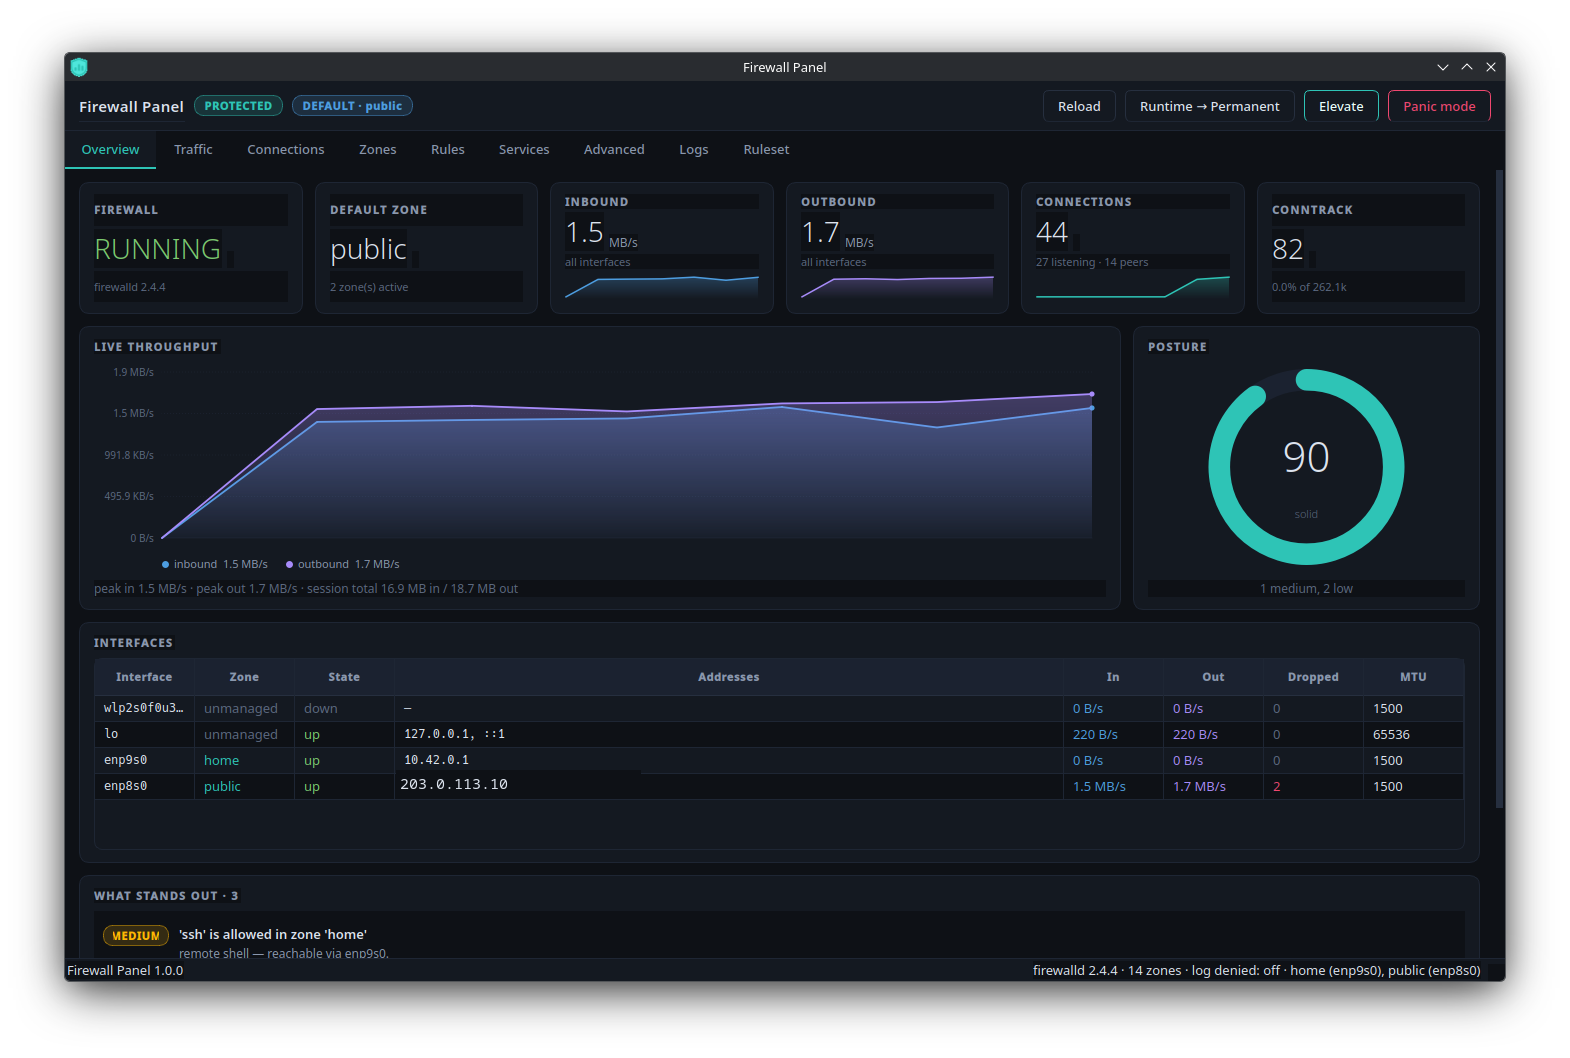
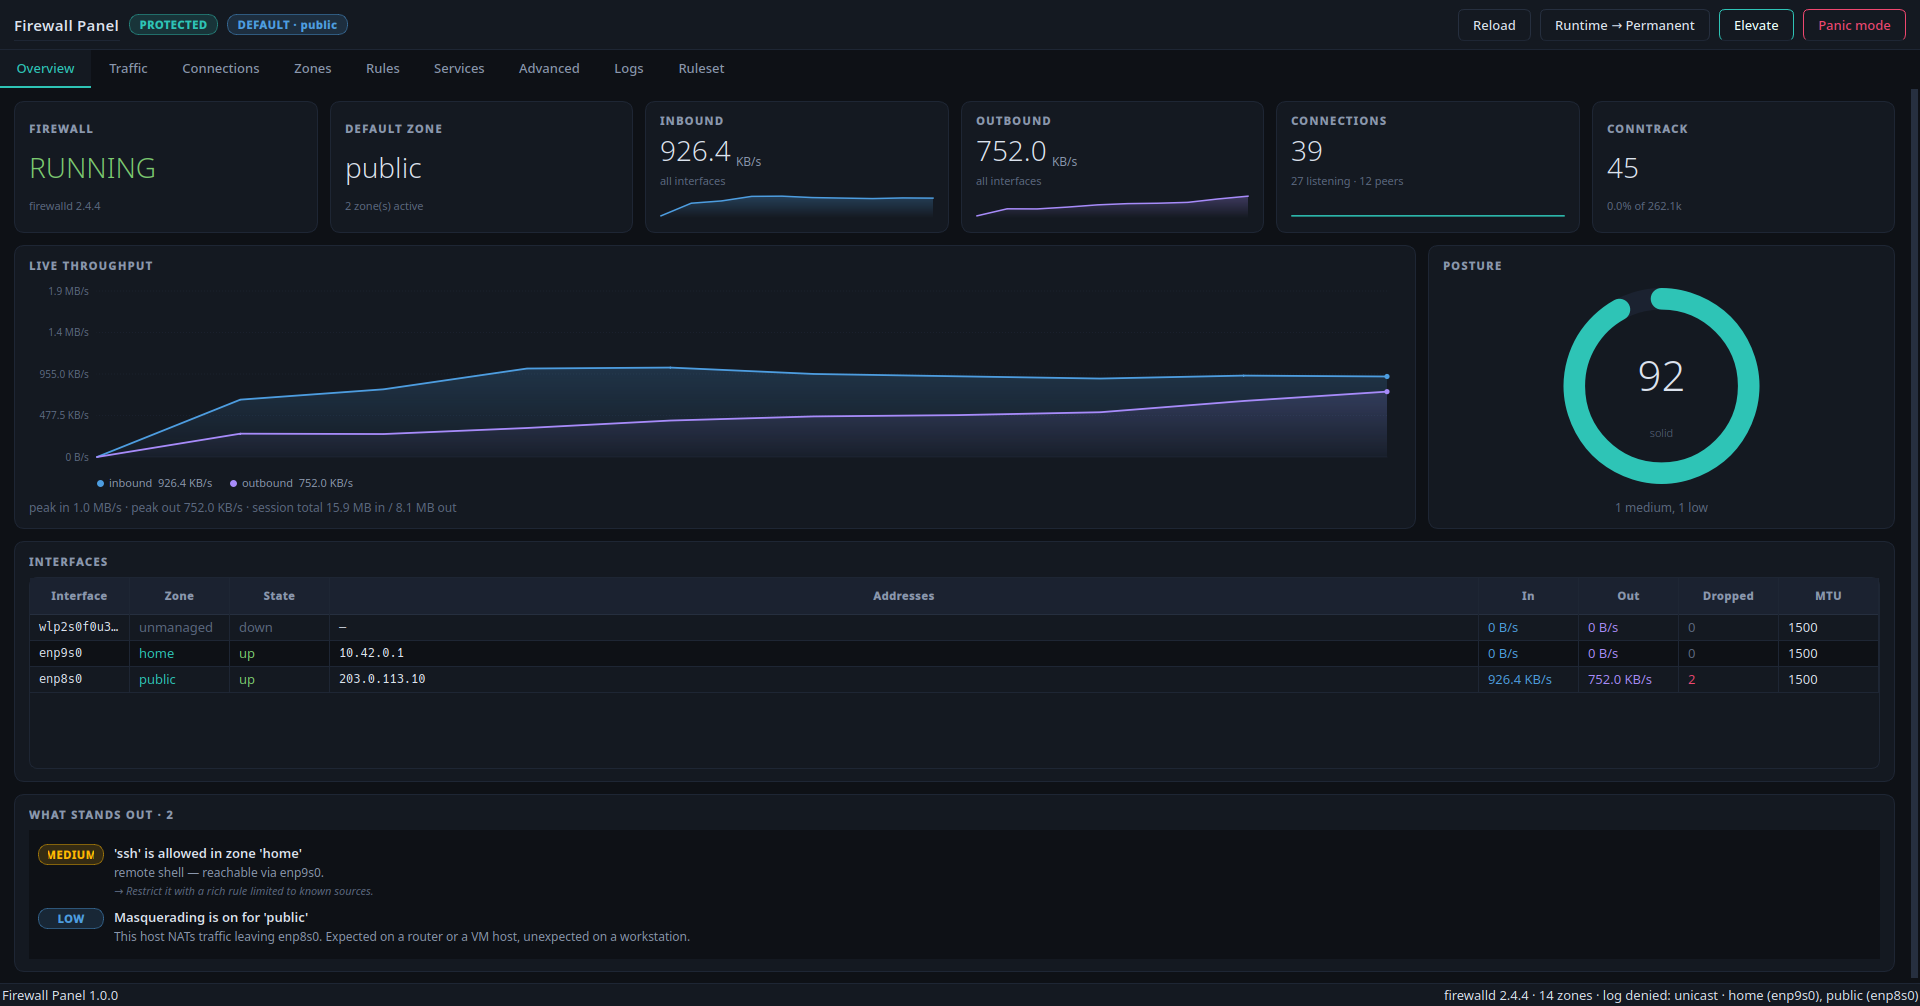
Add Connections and Logs screenshots; fix journal auto-follow
The journal pane scrolled horizontally to the end of each line as it
followed, hiding the timestamp and chain prefix behind a long kernel
record. Appending parks the text cursor at end-of-line and Qt keeps that
cursor visible on every repaint, so the view was dragged right. Anchor the
cursor to the start of the last line and follow by scrolling the viewport
instead. Also settle the horizontal position once per batch in _on_output,
since journalctl delivers its whole -n backlog in a single chunk.

Regenerate the screenshot set at a uniform size, captured via
QWidget.grab() so the result does not depend on window focus. Addresses are
mapped into the RFC 5737/3849 documentation ranges and MACs into the
RFC 7042 range; the output is otherwise real.

diff --git a/fwpanel/ui/tab_logs.py b/fwpanel/ui/tab_logs.py
@@ -180,6 +180,10 @@ class LogsTab(QWidget):
         for line in chunk.splitlines():
             if line.strip():
                 self._ingest(line)
+        # journalctl delivers its whole backlog in one chunk, and the per-line
+        # scroll reset can lose that race; settle it once the batch is in.
+        if self.follow_check.isChecked():
+            self.raw.horizontalScrollBar().setValue(0)
 
     def _ingest(self, line: str) -> None:
         if self._paused:
@@ -202,9 +206,16 @@ class LogsTab(QWidget):
         else:
             self.raw.appendPlainText(line)
         if self.follow_check.isChecked() and at_bottom:
-            self.raw.moveCursor(QTextCursor.End)
-            # Following to the end also scrolls right to the end of the line;
-            # snap back so long kernel lines stay readable from the start.
+            # Appending parks the text cursor at the end of the line, and Qt
+            # keeps that cursor visible on every repaint - which drags the
+            # view right and hides the timestamp on these long kernel lines.
+            # Anchor the cursor to the start of the last line instead, then
+            # follow by scrolling the viewport.
+            cursor = self.raw.textCursor()
+            cursor.movePosition(QTextCursor.End)
+            cursor.movePosition(QTextCursor.StartOfLine)
+            self.raw.setTextCursor(cursor)
+            scroll.setValue(scroll.maximum())
             self.raw.horizontalScrollBar().setValue(0)
 
     def _rebuild_raw(self) -> None:

diff --git a/README.md b/README.md
@@ -77,9 +77,33 @@ Beyond the tab list:
   when firewalld is unreachable. The tooltip carries live throughput and
   connection counts.
 
+### Screenshots
+
+**Zones** — the full editor, with a Runtime / Permanent / Both selector and
+per-entry scope labels so drift is visible in place.
+
 ![Zones tab](docs/screenshots/zones.png)
 
+**Connections** — every socket, with process names, filters and a right-click
+route to a block rule. Listening sockets show `*` for the peer.
+
+![Connections tab](docs/screenshots/connections.png)
+
+**Traffic** — throughput, packet rate, errors and drops, connection counts,
+conntrack occupancy, socket states and top peers.
+
 ![Traffic tab](docs/screenshots/traffic.png)
+
+**Logs** — denied packets per second, a parsed denial table with the packet
+detail (length, TTL, TCP flags), and the raw journal beneath.
+
+![Logs tab](docs/screenshots/logs.png)
+
+> All addresses in these screenshots are mapped into the documentation ranges
+> reserved by [RFC 5737](https://www.rfc-editor.org/rfc/rfc5737) and
+> [RFC 3849](https://www.rfc-editor.org/rfc/rfc3849) (`192.0.2.0/24`,
+> `198.51.100.0/24`, `203.0.113.0/24`, `2001:db8::/32`), and MAC addresses into
+> the RFC 7042 documentation range. The output is otherwise real.
 
 ## Requirements
 
